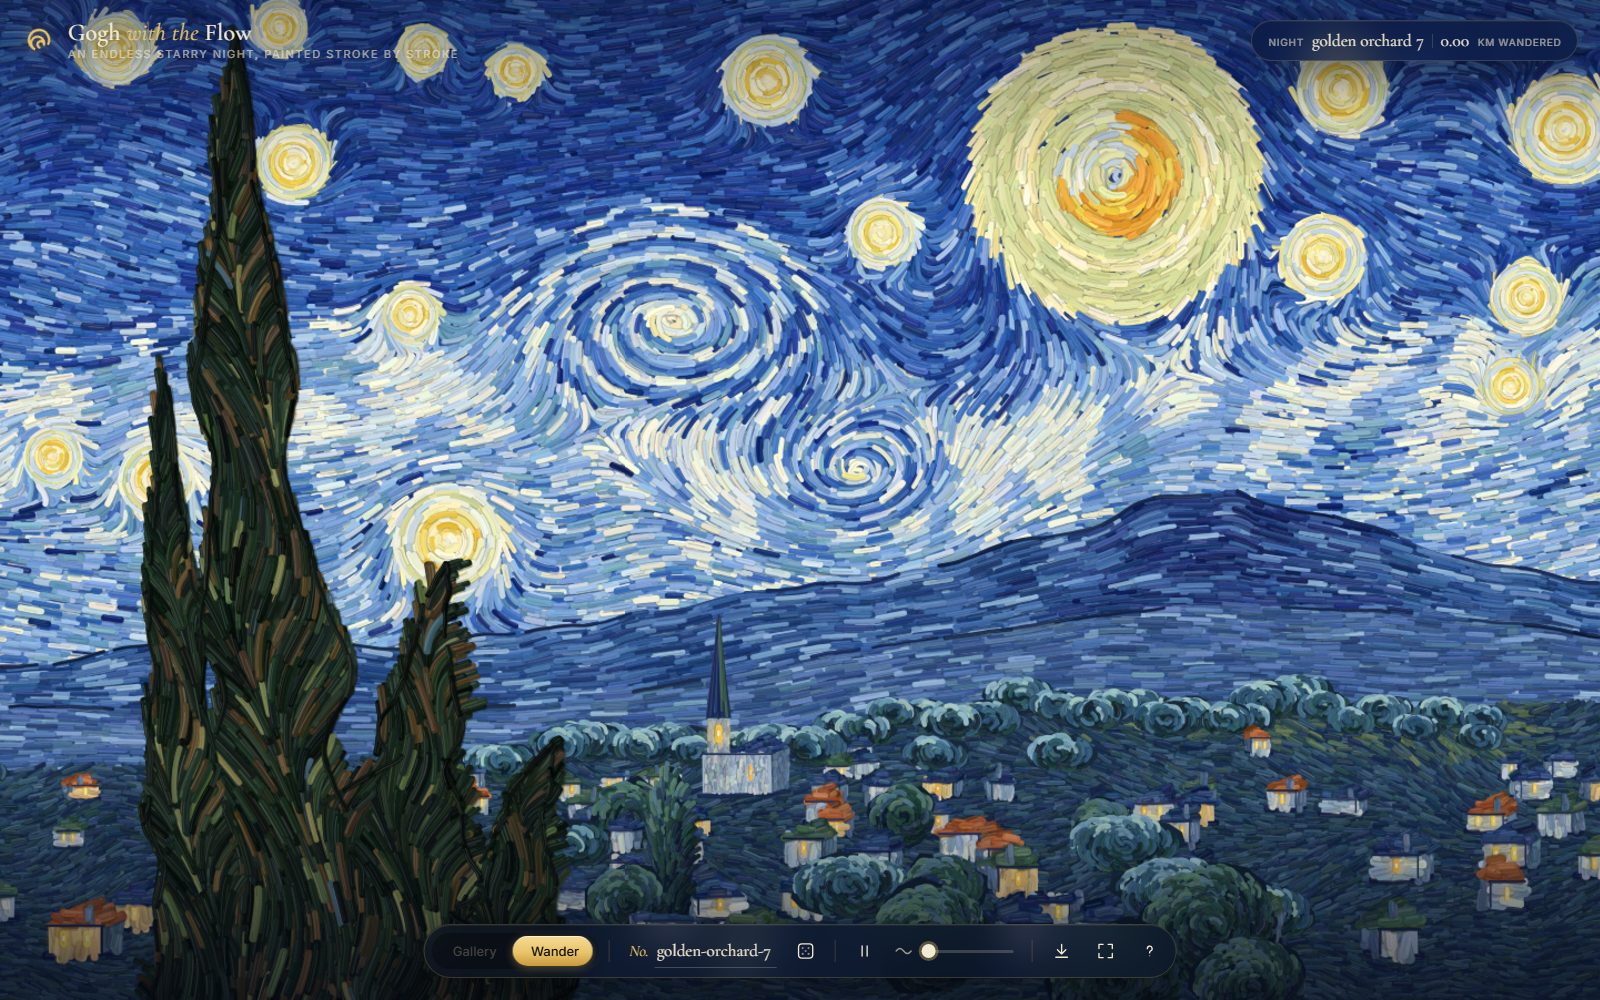
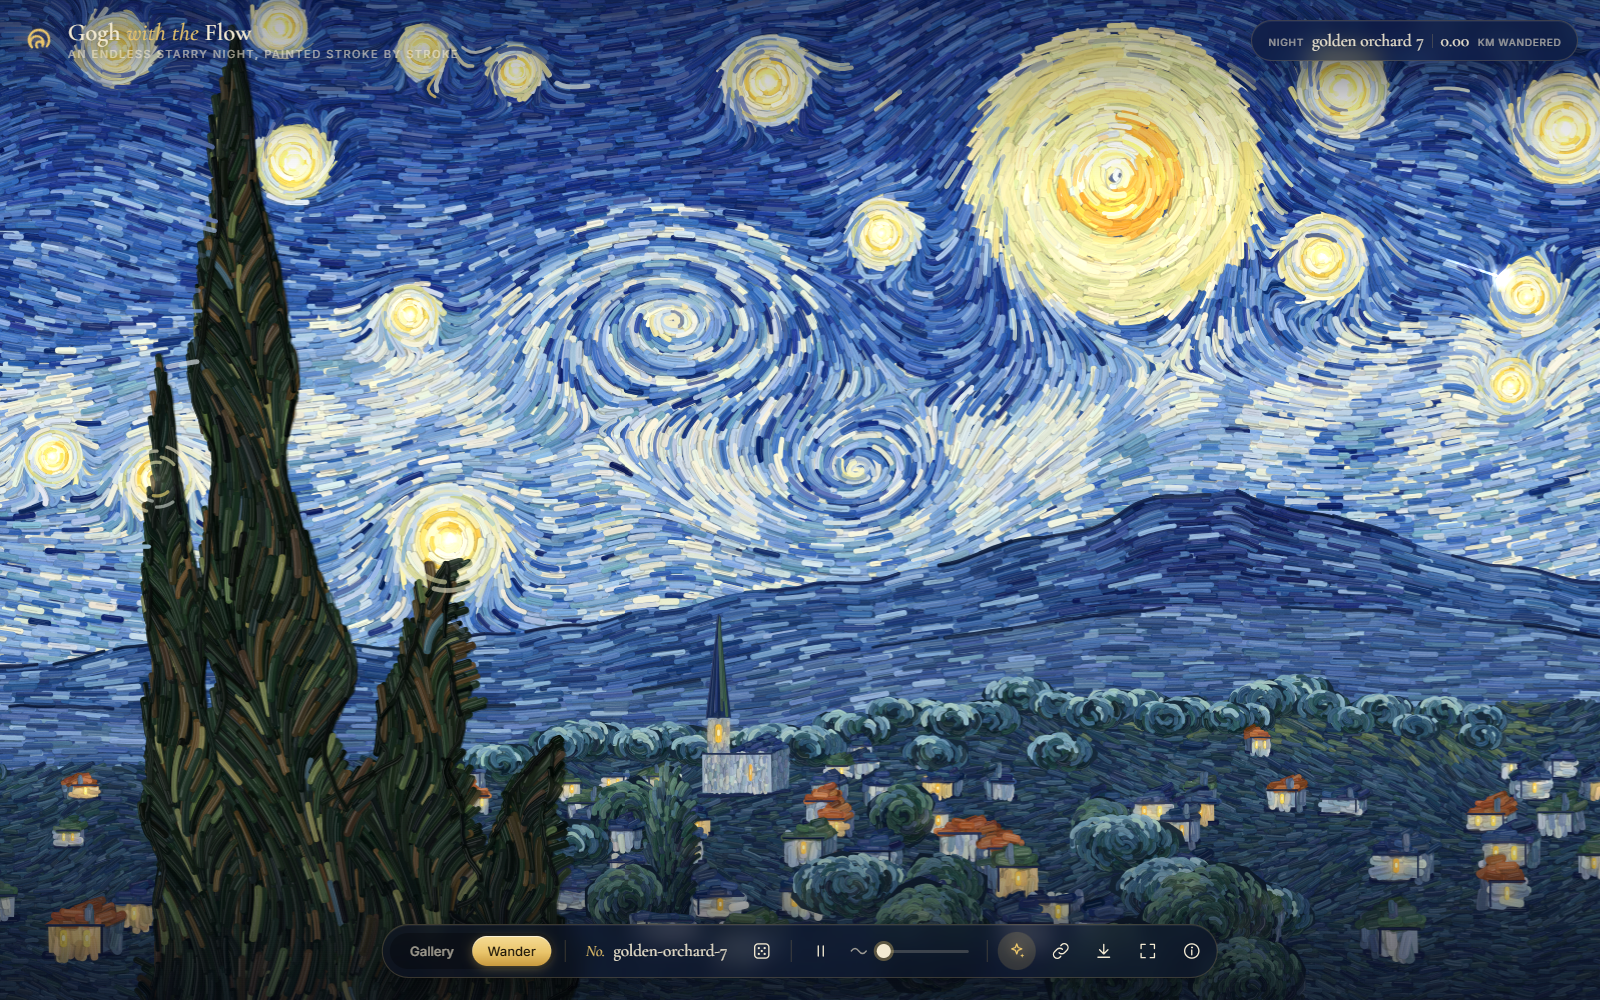
README: living painting, worker rendering, single-file build and Pages publishing

diff --git a/README.md b/README.md
@@ -18,26 +18,43 @@ An endless *Starry Night*, procedurally painted stroke by stroke. It takes its s
   poplars and fields keep coming, and each stretch is painted just ahead of you as you travel.
   It starts on the gallery painting itself.
 
-Every seed is its own night, and the same seed always paints the same world.
+Turn on **life** (on by default) and the painting moves. Brush strokes stream along the same
+currents that painted the sky, halos of paint circle the stars, the moon breathes, windows
+flicker like candlelight, and every so often a shooting star crosses the night.
+
+Every seed is its own night, and the same seed always paints the same world. Share a link and
+your friend sees exactly your night.
 
 ## Run it
 
 ```sh
 npm install
 npm run dev      # http://localhost:5173
-npm run build    # static site in dist/, deployable anywhere (e.g. GitHub Pages)
+npm run build    # dist/index.html: one self-contained file (~100 KB)
 ```
+
+The build is a single HTML file with everything inlined, so you can send it to someone and they
+can just double-click it. No server needed.
+
+### Publish on GitHub Pages
+
+The repo includes `.github/workflows/deploy.yml`. Do this once: in the GitHub repo go to **Settings → Pages →
+Source: GitHub Actions**. After that, every push to `main` publishes the site to
+`https://evandongchen.github.io/GoghWithTheFlow/`. Link previews use `public/og.jpg`.
 
 | Input | Action |
 | --- | --- |
 | `G` / `W` | Gallery / Wander |
 | `N` | A new night |
+| `A` | Bring the painting to life / still it |
+| `C` | Copy a link to this night |
+| `I` | About |
 | `Space` | Pause or resume drifting |
 | `←` `→`, drag, scroll | Walk through the night |
 | `S` | Save the current view as PNG |
 | `F` | Fullscreen |
 
-URL parameters: `?seed=arles`, `&mode=wander`, `&speed=0..160`, `&intro=0`.
+URL parameters: `?seed=arles`, `&mode=wander`, `&speed=0..160`, `&animate=0`, `&intro=0`.
 
 ## How it works
 
@@ -55,9 +72,17 @@ are pinned to the classic layout, so the gallery painting is also where the wand
 from its global grid cell and given a global sort key. So when two chunks both draw a stroke that
 crosses their shared edge, they draw it identically and in the same order, and no seam shows.
 
-**Painted progressively.** A chunk is planned as an ordered list of draw ops, then executed a few
-milliseconds per frame. Visible chunks go first, then the road ahead, which is why you can watch
-it being painted.
+**Painted off the main thread.** Two web workers plan each chunk as an ordered list of draw ops
+and rasterise it into a CPU-backed `OffscreenCanvas`, in short slices. They send partial bitmaps
+along the way, which is why you can watch the painting form. Visible chunks go first, then the
+road ahead. The page only blits finished images, so scrolling stays smooth. (Keeping the
+workers' canvases on the CPU matters: thousands of strokes queued on the GPU would stall the
+page's own frames.) Browsers without OffscreenCanvas fall back to painting in small
+main-thread slices.
+
+**A living layer.** `src/anim/life.ts` redraws over the finished painting every frame:
+particles advected through the sky's flow field and drawn as fading brush trails, rotating arcs
+around each glow, additive light sprites, flickering windows, and shooting stars.
 
 | Path | Role |
 | --- | --- |
@@ -67,5 +92,7 @@ it being painted.
 | `src/paint/land.ts` | Hills that follow ridgelines, valley floor, field patches |
 | `src/paint/village.ts` | Blocky 3/4-view houses built from paint dabs, glowing windows, churches, trees |
 | `src/paint/cypress.ts` | Flame-shaped cypress with skewed-sine lobes and upward-curling strokes |
-| `src/paint/chunks.ts` | Plans, orders and progressively paints chunks; canvas weave; eviction |
-| `src/main.ts`, `src/styles.css` | Gallery, wander, dock, input, export |
+| `src/paint/chunks.ts` | Plans and orders a chunk's strokes; time-sliced painting; canvas weave |
+| `src/paint/worker.ts`, `pool.ts` | Painting workers and the pool that schedules chunks and keeps their images |
+| `src/anim/life.ts` | The animation layer: streaming strokes, shimmering halos, candlelit windows, shooting stars |
+| `src/main.ts`, `src/styles.css` | Gallery, wander, dock, about panel, input, share, export |
